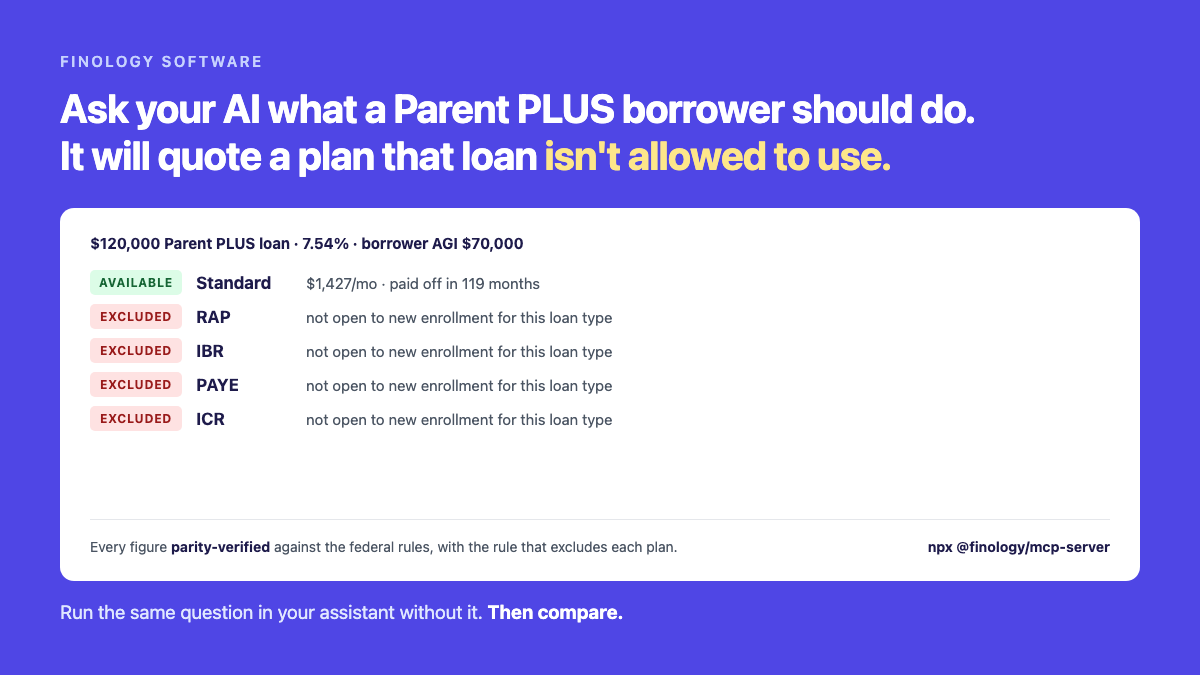
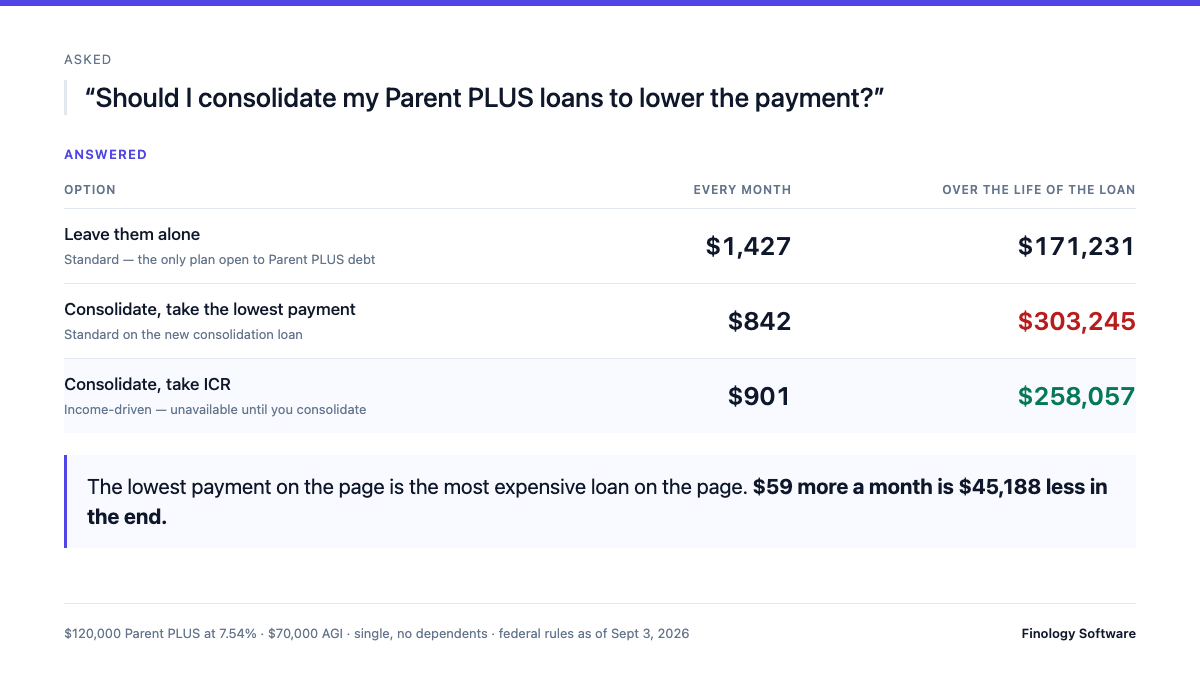
assets: rebuild the magic moment as the exchange, not a poster
The prior card led with a headline, which meant the headline WAS the
claim and the image only restated it. Strip the caption and nothing was
left. This one is the transcript: a naive question, then three rows in
which the cheapest month is the most expensive life. The reader does the
subtraction, which is the point.

Figures are the live engine's, not illustrations.

diff --git a/assets/magic-moment.html b/assets/magic-moment.html
@@ -1,47 +1,62 @@
 <!doctype html>
 <meta charset="utf-8">
-<title>Finology magic moment</title>
 <style>
-  * { box-sizing: border-box; margin: 0; padding: 0; }
-  body { width: 1200px; height: 675px; background: #4F46E5; font-family: -apple-system, BlinkMacSystemFont, "Segoe UI", Inter, sans-serif;
-         display: flex; flex-direction: column; padding: 52px 60px; color: #fff; }
-  .eyebrow { font-size: 15px; letter-spacing: .16em; text-transform: uppercase; color: #C7D2FE; font-weight: 600; }
-  h1 { font-size: 40px; line-height: 1.18; font-weight: 700; margin-top: 14px; max-width: 1000px; letter-spacing: -0.02em; }
-  h1 em { font-style: normal; color: #FDE68A; }
-  .panel { margin-top: 30px; background: #fff; border-radius: 14px; padding: 26px 30px; color: #1e1b4b; flex: 1;
-           display: flex; flex-direction: column; }
-  .q { font-size: 15px; color: #4b5563; margin-bottom: 18px; }
-  .q b { color: #1e1b4b; }
-  .rows { display: flex; flex-direction: column; gap: 9px; }
-  .row { display: flex; align-items: center; gap: 14px; font-size: 17px; }
-  .tag { width: 92px; flex: none; font-size: 12px; font-weight: 700; letter-spacing: .06em; text-transform: uppercase;
-         padding: 5px 0; text-align: center; border-radius: 5px; }
-  .ok { background: #dcfce7; color: #166534; }
-  .no { background: #fee2e2; color: #991b1b; }
-  .plan { font-weight: 700; width: 96px; flex: none; }
-  .detail { color: #4b5563; font-size: 15px; }
-  .foot { margin-top: auto; padding-top: 18px; border-top: 1px solid #e5e7eb; display: flex; justify-content: space-between;
-          align-items: baseline; font-size: 14px; color: #4b5563; }
-  .foot b { color: #1e1b4b; }
-  .try { margin-top: 20px; font-size: 19px; color: #E0E7FF; }
-  .try b { color: #fff; }
-</style>
-<div class="eyebrow">Finology Software</div>
-<h1>Ask your AI what a Parent PLUS borrower should do.<br>It will quote a plan that loan <em>isn't allowed to use.</em></h1>
+  :root { --ink:#0F172A; --mute:#64748B; --line:#E2E8F0; --indigo:#4F46E5; --bad:#B91C1C; --good:#047857; }
+  * { box-sizing:border-box; margin:0; padding:0; }
+  body { width:1200px; height:675px; background:#fff; font:400 16px/1.5 -apple-system,BlinkMacSystemFont,"Segoe UI",Helvetica,Arial,sans-serif; color:var(--ink); display:flex; flex-direction:column; }
+  .bar { height:6px; background:var(--indigo); }
+  .wrap { flex:1; padding:44px 64px 32px; display:flex; flex-direction:column; }
 
-<div class="panel">
-  <div class="q"><b>$120,000 Parent PLUS loan · 7.54% · borrower AGI $70,000</b></div>
-  <div class="rows">
-    <div class="row"><span class="tag ok">Available</span><span class="plan">Standard</span><span class="detail">$1,427/mo · paid off in 119 months</span></div>
-    <div class="row"><span class="tag no">Excluded</span><span class="plan">RAP</span><span class="detail">not open to new enrollment for this loan type</span></div>
-    <div class="row"><span class="tag no">Excluded</span><span class="plan">IBR</span><span class="detail">not open to new enrollment for this loan type</span></div>
-    <div class="row"><span class="tag no">Excluded</span><span class="plan">PAYE</span><span class="detail">not open to new enrollment for this loan type</span></div>
-    <div class="row"><span class="tag no">Excluded</span><span class="plan">ICR</span><span class="detail">not open to new enrollment for this loan type</span></div>
+  .q-label { font-size:13px; letter-spacing:.09em; text-transform:uppercase; color:var(--mute); margin-bottom:10px; }
+  .q { font-size:27px; line-height:1.32; font-weight:500; color:var(--ink); padding-left:18px; border-left:3px solid var(--line); margin-bottom:30px; }
+
+  .a-label { font-size:13px; letter-spacing:.09em; text-transform:uppercase; color:var(--indigo); font-weight:600; margin-bottom:16px; }
+
+  table { width:100%; border-collapse:collapse; }
+  th { font-size:12px; letter-spacing:.07em; text-transform:uppercase; color:var(--mute); font-weight:600; text-align:right; padding:0 0 9px; }
+  th.l { text-align:left; }
+  td { padding:13px 0; border-top:1px solid var(--line); text-align:right; font-variant-numeric:tabular-nums; font-size:25px; font-weight:600; }
+  td.l { text-align:left; font-size:17px; font-weight:500; color:var(--ink); }
+  td.l small { display:block; font-size:13px; font-weight:400; color:var(--mute); margin-top:3px; }
+  tr.hl td { background:#F8FAFF; }
+  .cost-bad { color:var(--bad); }
+  .cost-good { color:var(--good); }
+
+  .delta { margin-top:22px; padding:16px 20px; background:#F8FAFF; border-left:3px solid var(--indigo); font-size:21px; line-height:1.45; }
+  .delta b { font-weight:700; }
+
+  .foot { margin-top:auto; padding-top:20px; display:flex; justify-content:space-between; align-items:baseline; font-size:13px; color:var(--mute); border-top:1px solid var(--line); }
+  .foot .brand { color:var(--ink); font-weight:600; }
+</style>
+<div class="bar"></div>
+<div class="wrap">
+  <div class="q-label">Asked</div>
+  <div class="q">&ldquo;Should I consolidate my Parent PLUS loans to lower the payment?&rdquo;</div>
+
+  <div class="a-label">Answered</div>
+  <table>
+    <tr><th class="l">Option</th><th>Every month</th><th>Over the life of the loan</th></tr>
+    <tr>
+      <td class="l">Leave them alone<small>Standard &mdash; the only plan open to Parent PLUS debt</small></td>
+      <td>$1,427</td><td>$171,231</td>
+    </tr>
+    <tr>
+      <td class="l">Consolidate, take the lowest payment<small>Standard on the new consolidation loan</small></td>
+      <td>$842</td><td class="cost-bad">$303,245</td>
+    </tr>
+    <tr class="hl">
+      <td class="l">Consolidate, take ICR<small>Income-driven &mdash; unavailable until you consolidate</small></td>
+      <td>$901</td><td class="cost-good">$258,057</td>
+    </tr>
+  </table>
+
+  <div class="delta">
+    The lowest payment on the page is the most expensive loan on the page.
+    <b>$59 more a month is $45,188 less in the end.</b>
   </div>
+
   <div class="foot">
-    <span>Every figure <b>parity-verified</b> against the federal rules, with the rule that excludes each plan.</span>
-    <span><b>npx @finology/mcp-server</b></span>
+    <span>$120,000 Parent PLUS at 7.54% &middot; $70,000 AGI &middot; single, no dependents &middot; federal rules as of Sept 3, 2026</span>
+    <span class="brand">Finology Software</span>
   </div>
 </div>
-
-<div class="try">Run the same question in your assistant without it. <b>Then compare.</b></div>
